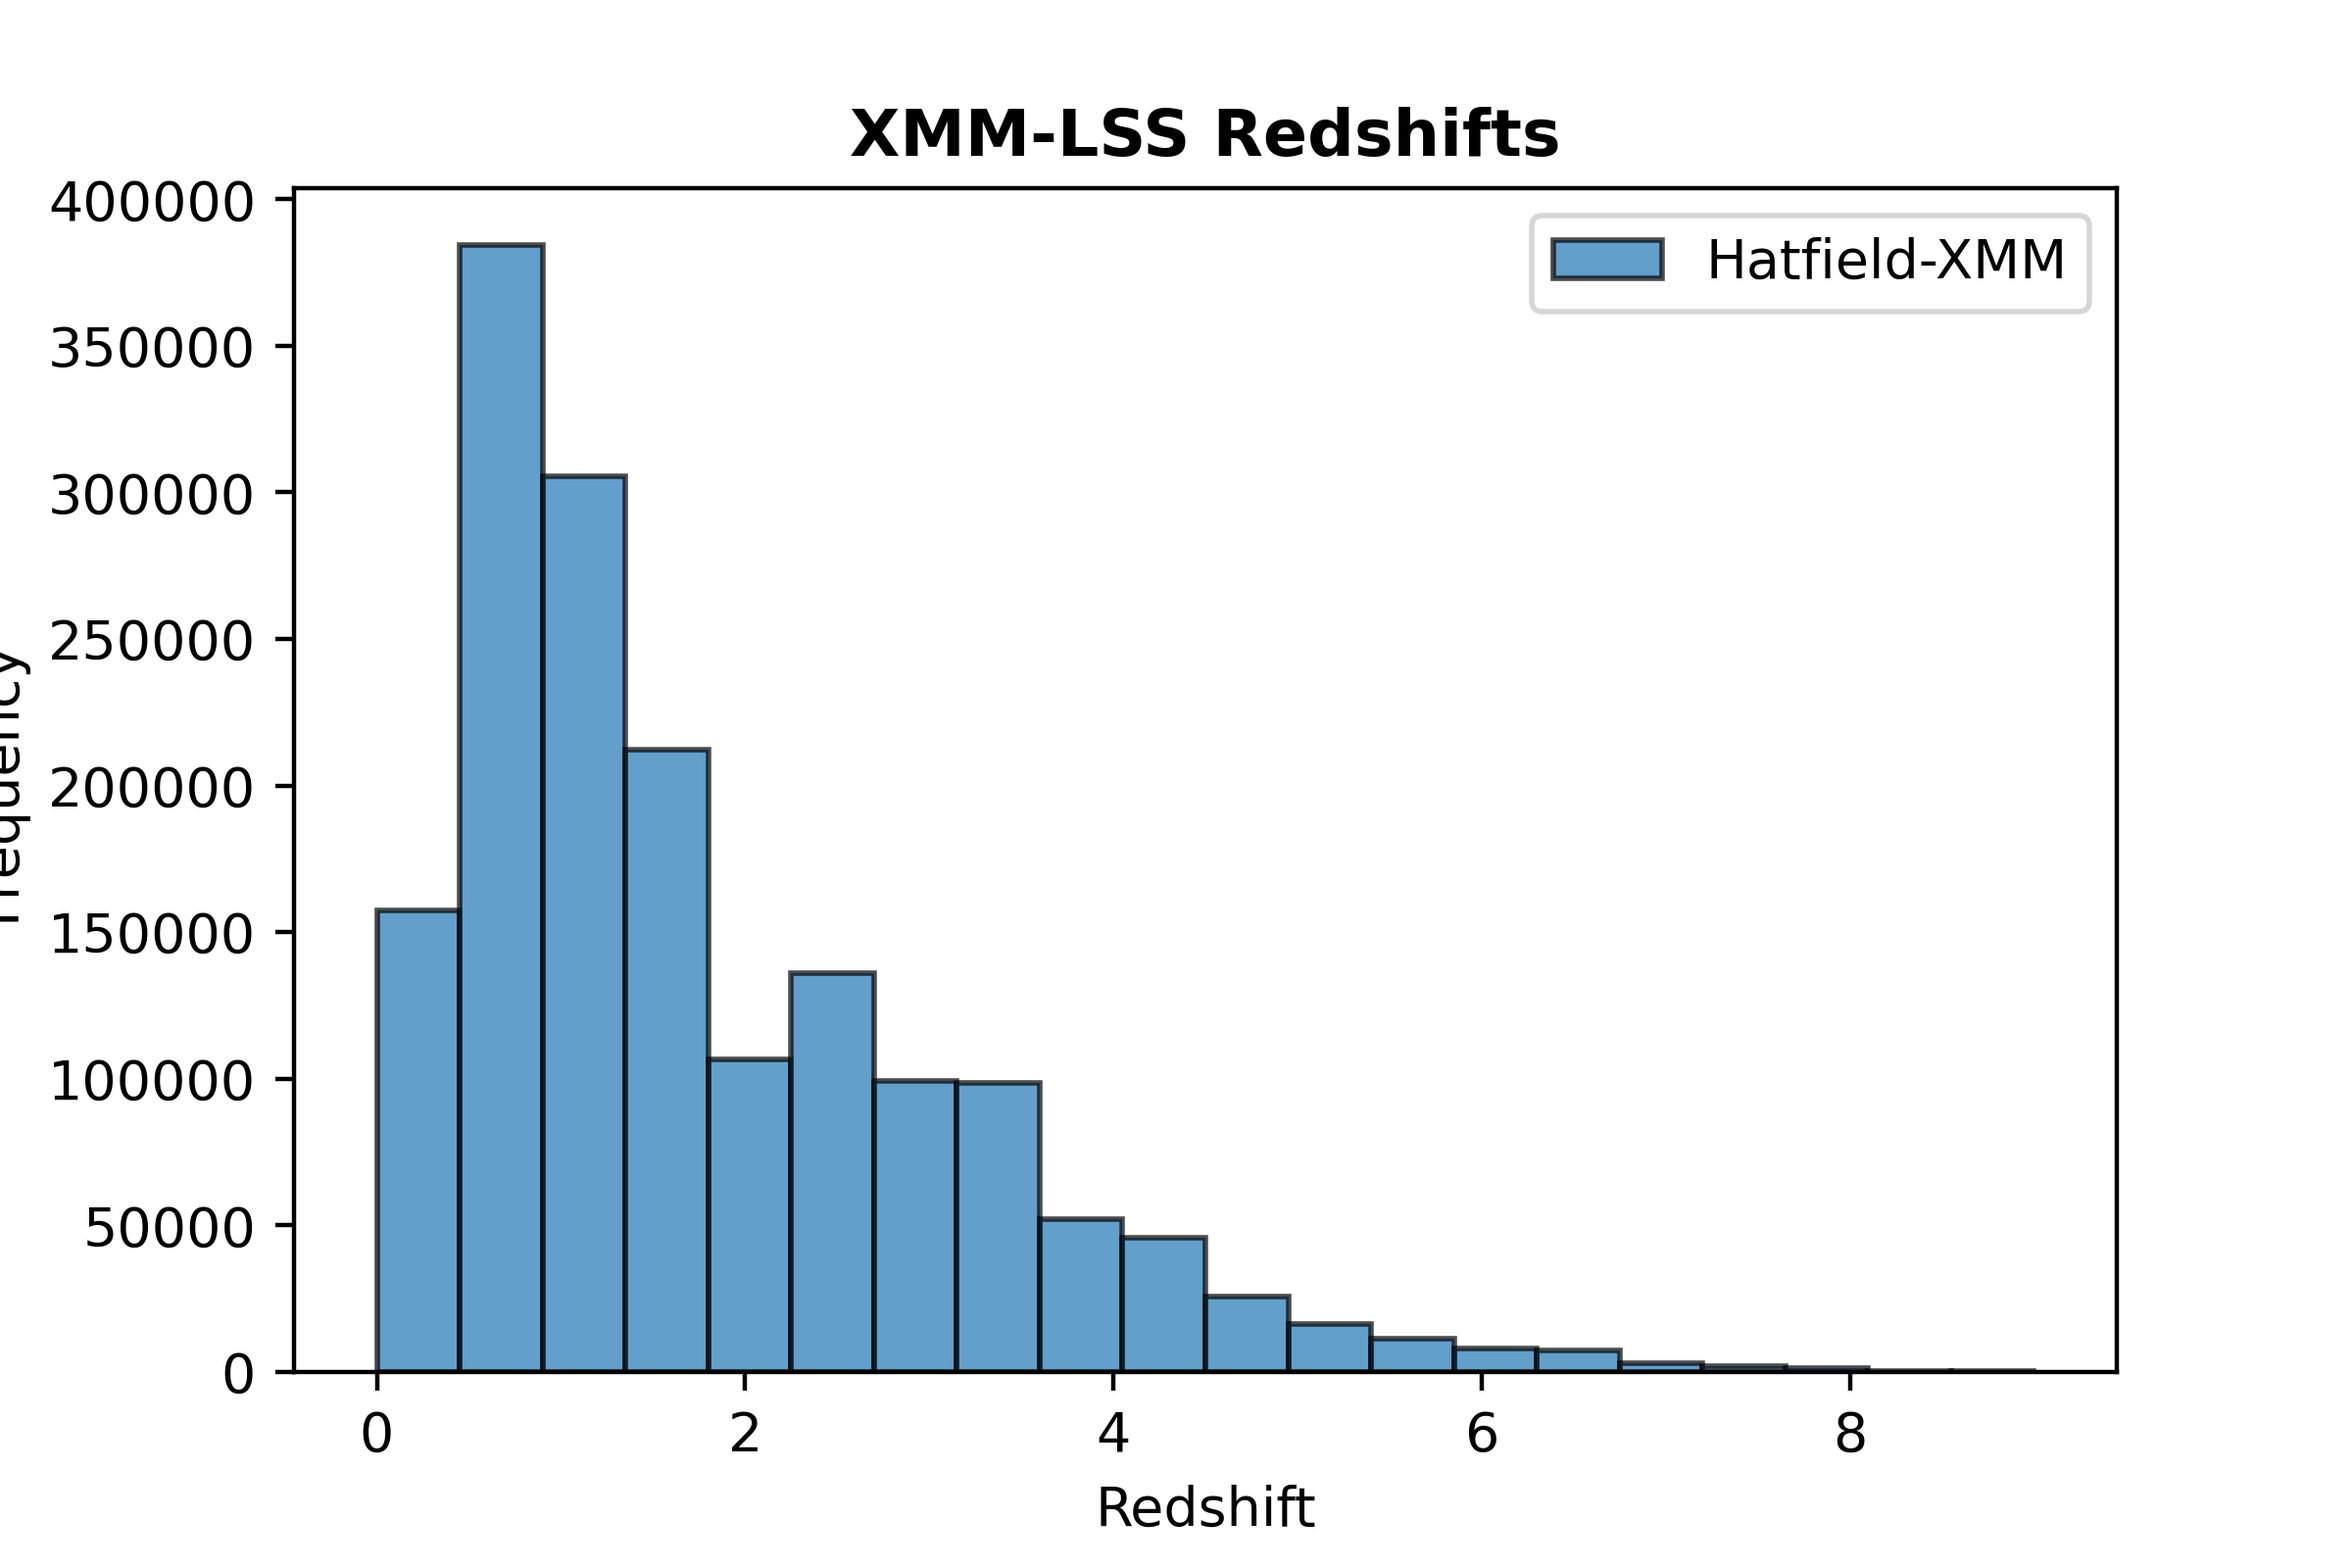
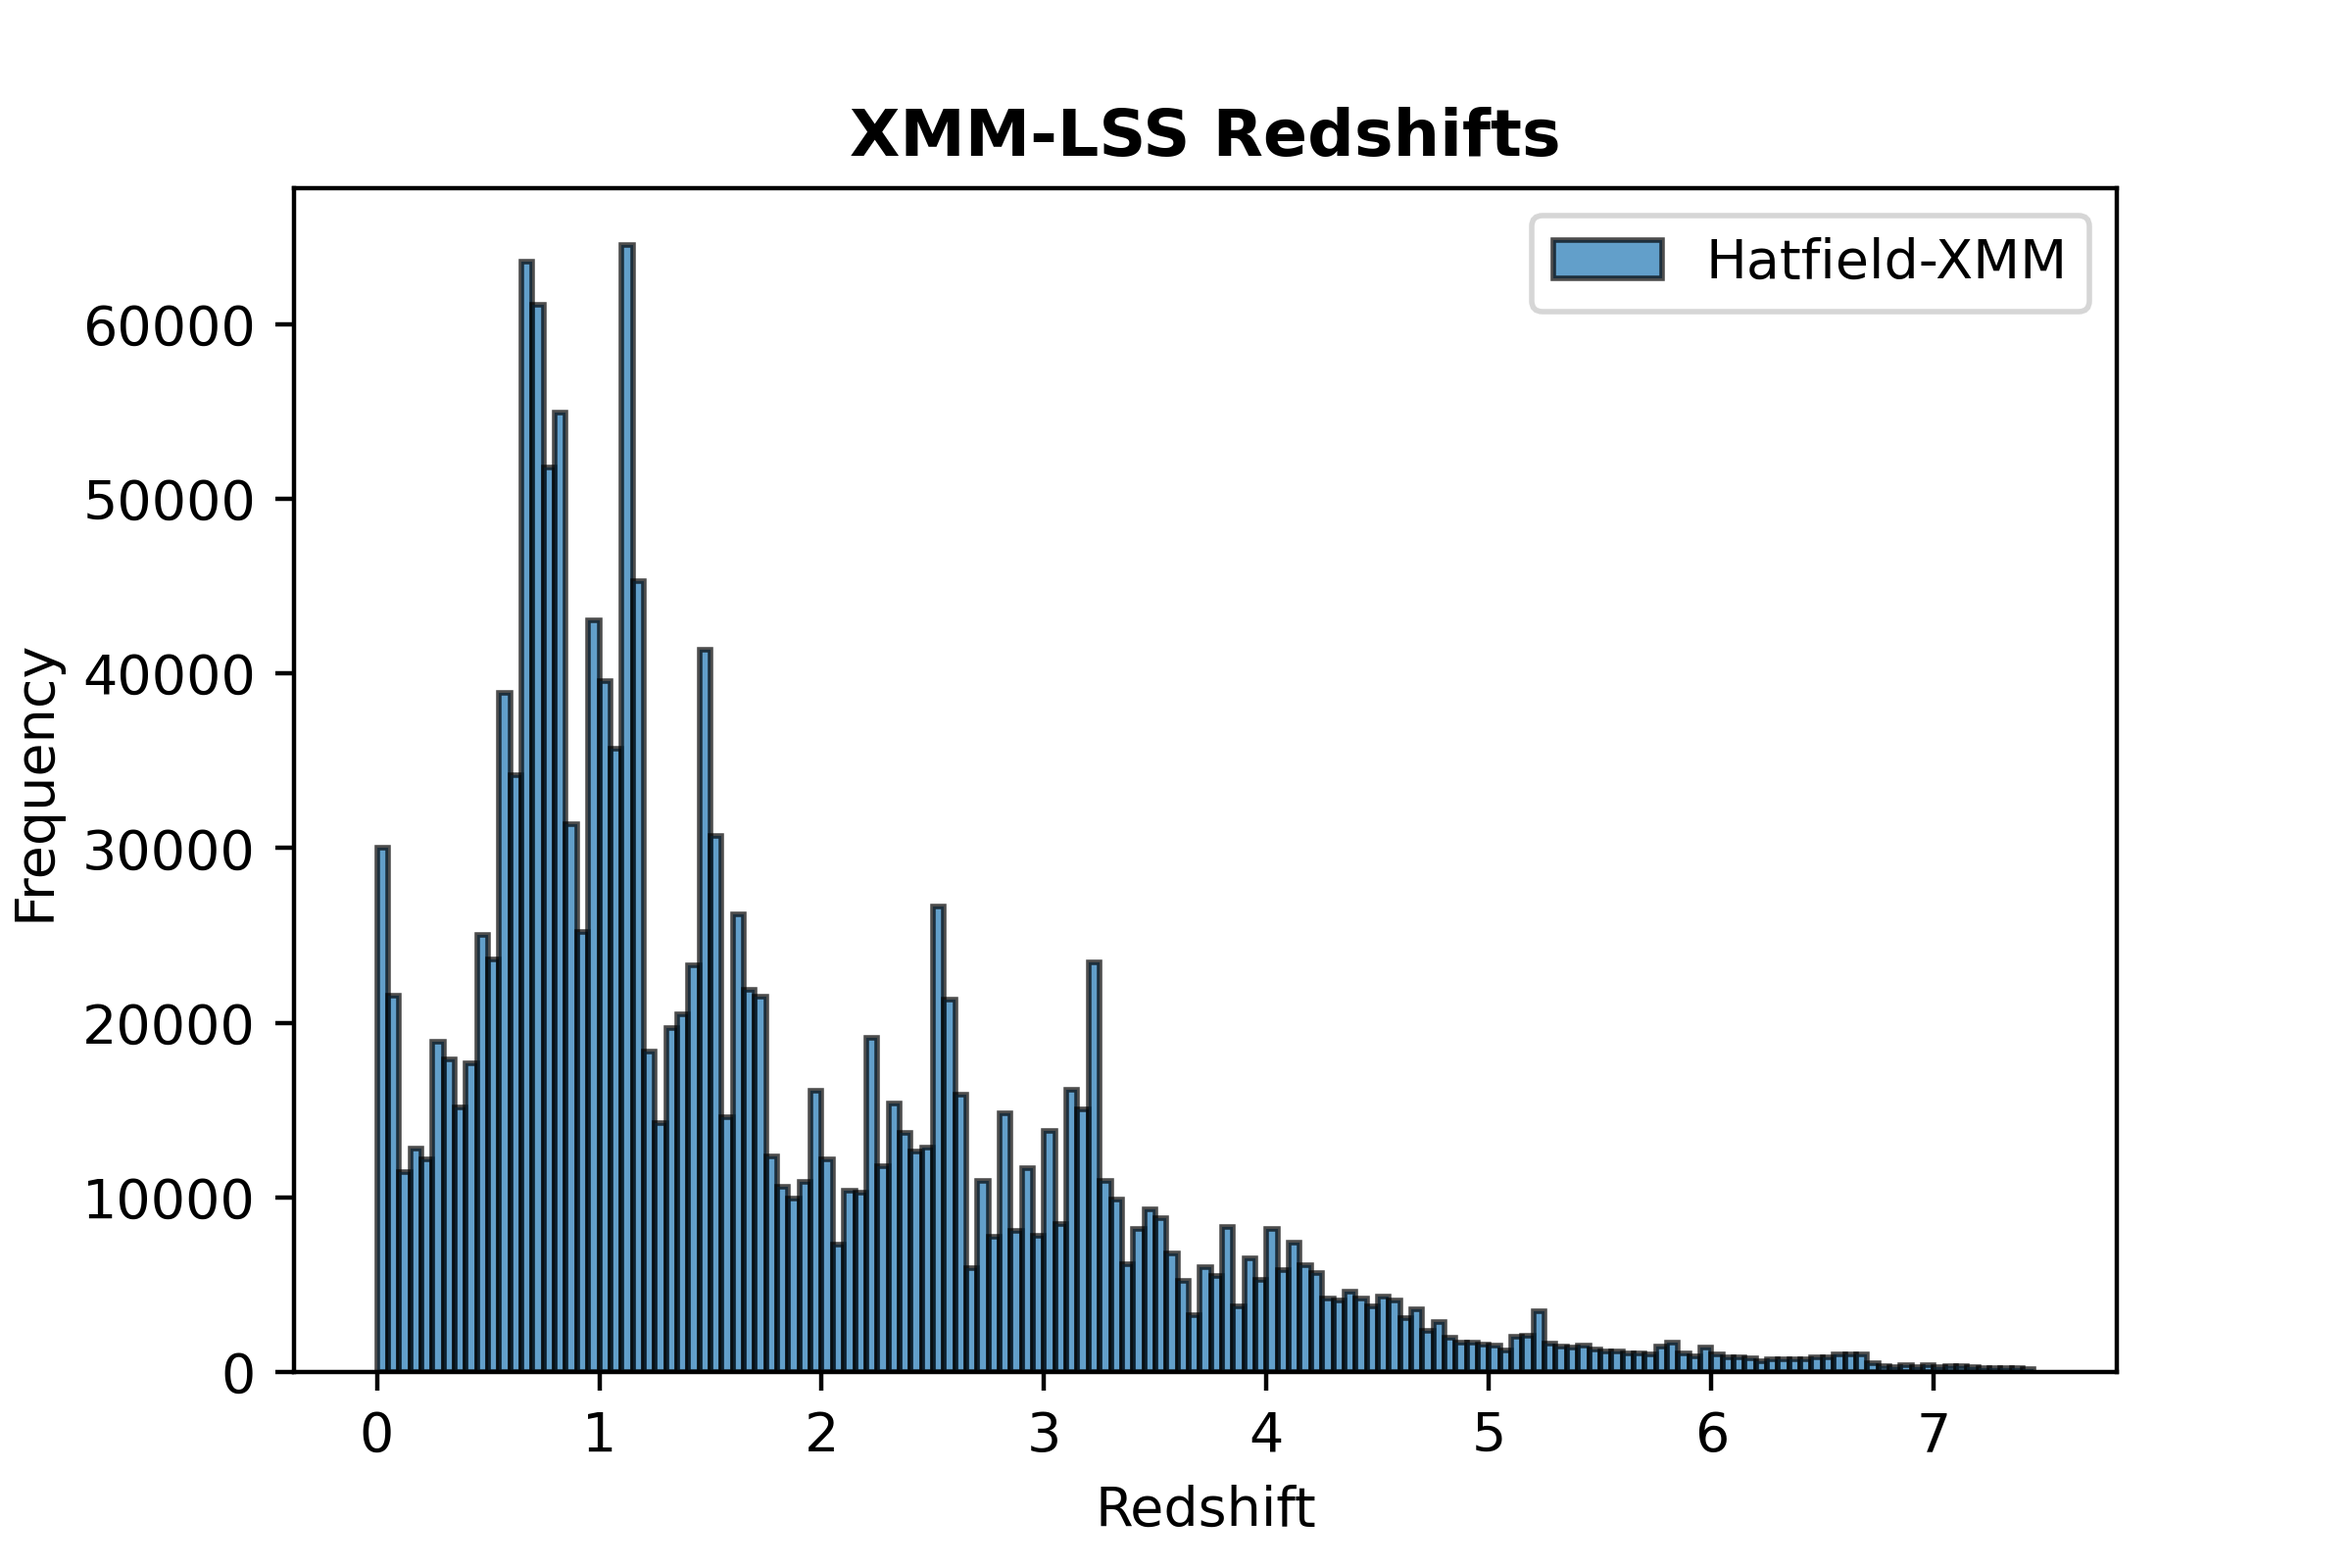
Updating histograms

diff --git a/Catalogue Plotting/Code/redshift_plotting.py b/Catalogue Plotting/Code/redshift_plotting.py
@@ -7,10 +7,11 @@ Created on Wed Jul  3 10:08:47 2024
 """
 import matplotlib.pyplot as plt
 import pandas as pd
+import numpy as np
 
 def plot_zhist(field,z,labels="",savefig=False,savename="field"):
    
-    plt.hist(z, label=labels, bins=20, edgecolor='black', alpha=0.7)
+    plt.hist(z, label=labels, bins=np.arange(0,7.5,0.05).tolist(), edgecolor='black', alpha=0.7)
     
     plt.legend()
     plt.title(f'{field} Redshifts',fontweight='bold')
